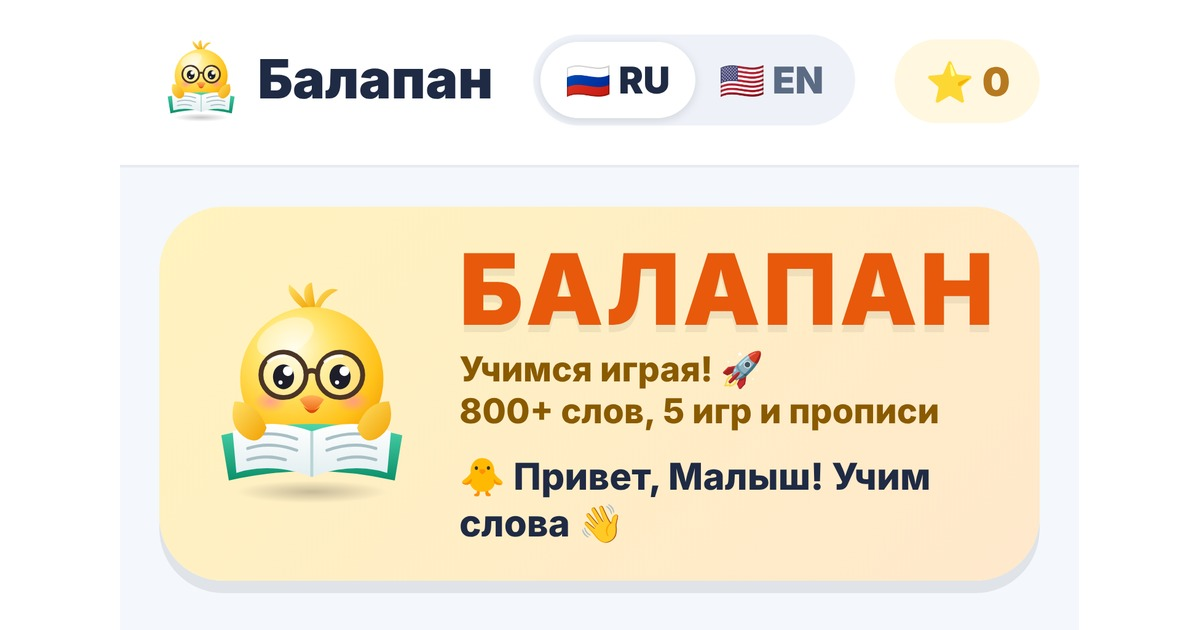
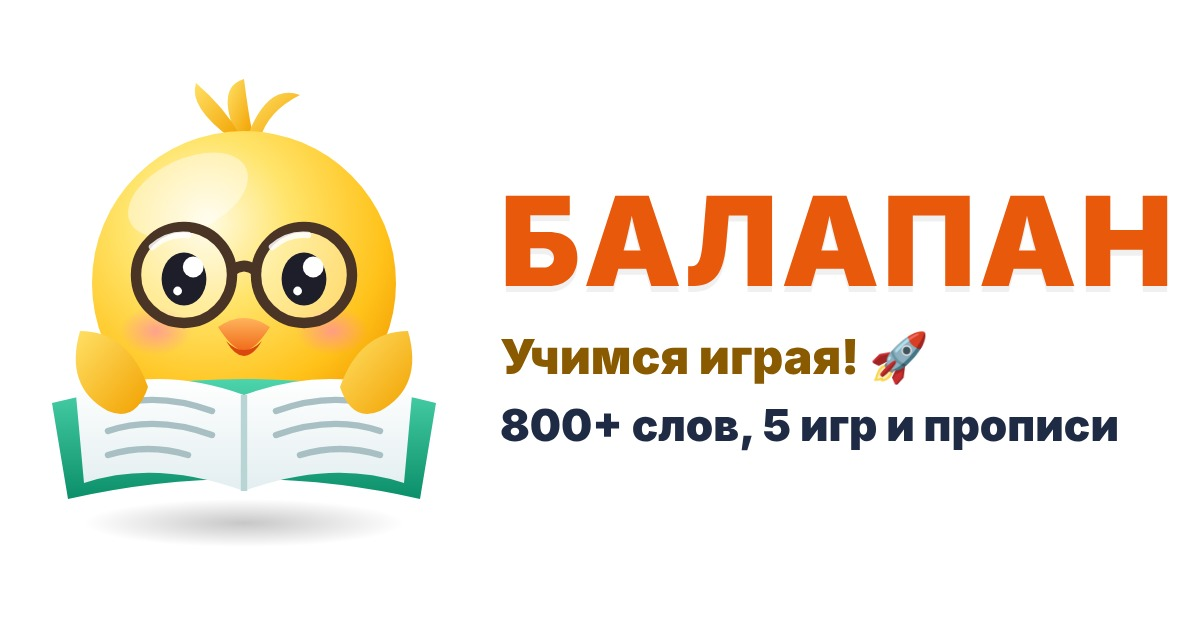
Balapan: white page bg, white share image with slogan
Claude-Session: https://claude.ai/code/session_01WCHYPKrETs26rmxwuPNGEX

diff --git a/docs/balapan/index.html b/docs/balapan/index.html
@@ -6,9 +6,9 @@
 <meta name="theme-color" content="#f4f7fb">
 <meta name="description" content="Учимся играя! 800+ слов на русском и английском, 5 игр и прописи для малышей.">
 <meta property="og:type" content="website">
-<meta property="og:title" content="БАЛАПАН 🐣 800+ слов, 5 игр и прописи">
+<meta property="og:title" content="БАЛАПАН 🐣 Учимся играя! 800+ слов, 5 игр и прописи">
 <meta property="og:description" content="Учимся играя! Русский и английский для малышей.">
-<meta property="og:image" content="https://taalaibekovasko2-ctrl.github.io/aidoochu-english/balapan/og.jpg?v=5">
+<meta property="og:image" content="https://taalaibekovasko2-ctrl.github.io/aidoochu-english/balapan/og.jpg?v=6">
 <meta property="og:image:width" content="1200"><meta property="og:image:height" content="630">
 <meta property="og:url" content="https://taalaibekovasko2-ctrl.github.io/aidoochu-english/balapan/">
 <meta name="twitter:card" content="summary_large_image">
@@ -17,7 +17,7 @@
 <meta name="apple-mobile-web-app-title" content="Балапан">
 <style>
 *{box-sizing:border-box;margin:0;padding:0;-webkit-tap-highlight-color:transparent}
-:root{--ink:#1f2a44;--sub:#5c6b84;--line:#e6ebf2;--bg:#f4f7fb;--pri:#4f7cff;--acc:#e8735a}
+:root{--ink:#1f2a44;--sub:#5c6b84;--line:#e6ebf2;--bg:#ffffff;--pri:#4f7cff;--acc:#e8735a}
 body{font-family:"Nunito",Inter,system-ui,-apple-system,sans-serif;background:var(--bg);color:var(--ink);min-height:100vh;overflow-x:hidden;-webkit-font-smoothing:antialiased}
 button{font-family:inherit;cursor:pointer;border:0;color:inherit}
 .top{background:#fff;padding:14px 16px 16px;border-bottom:1px solid var(--line);position:sticky;top:0;z-index:4}
